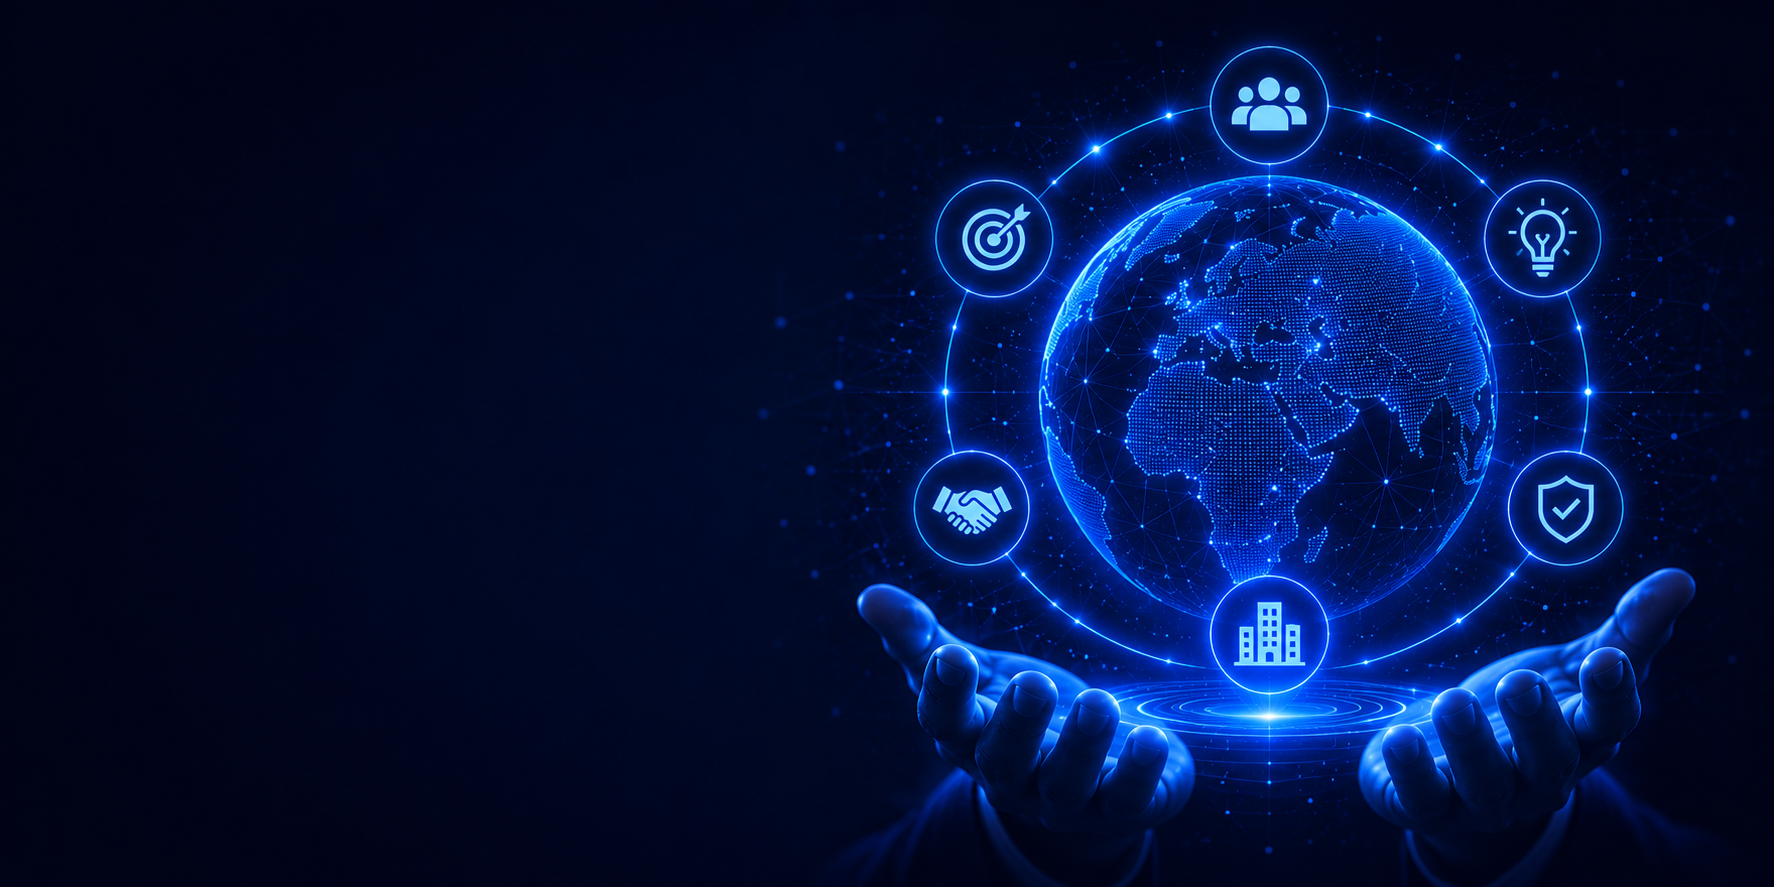
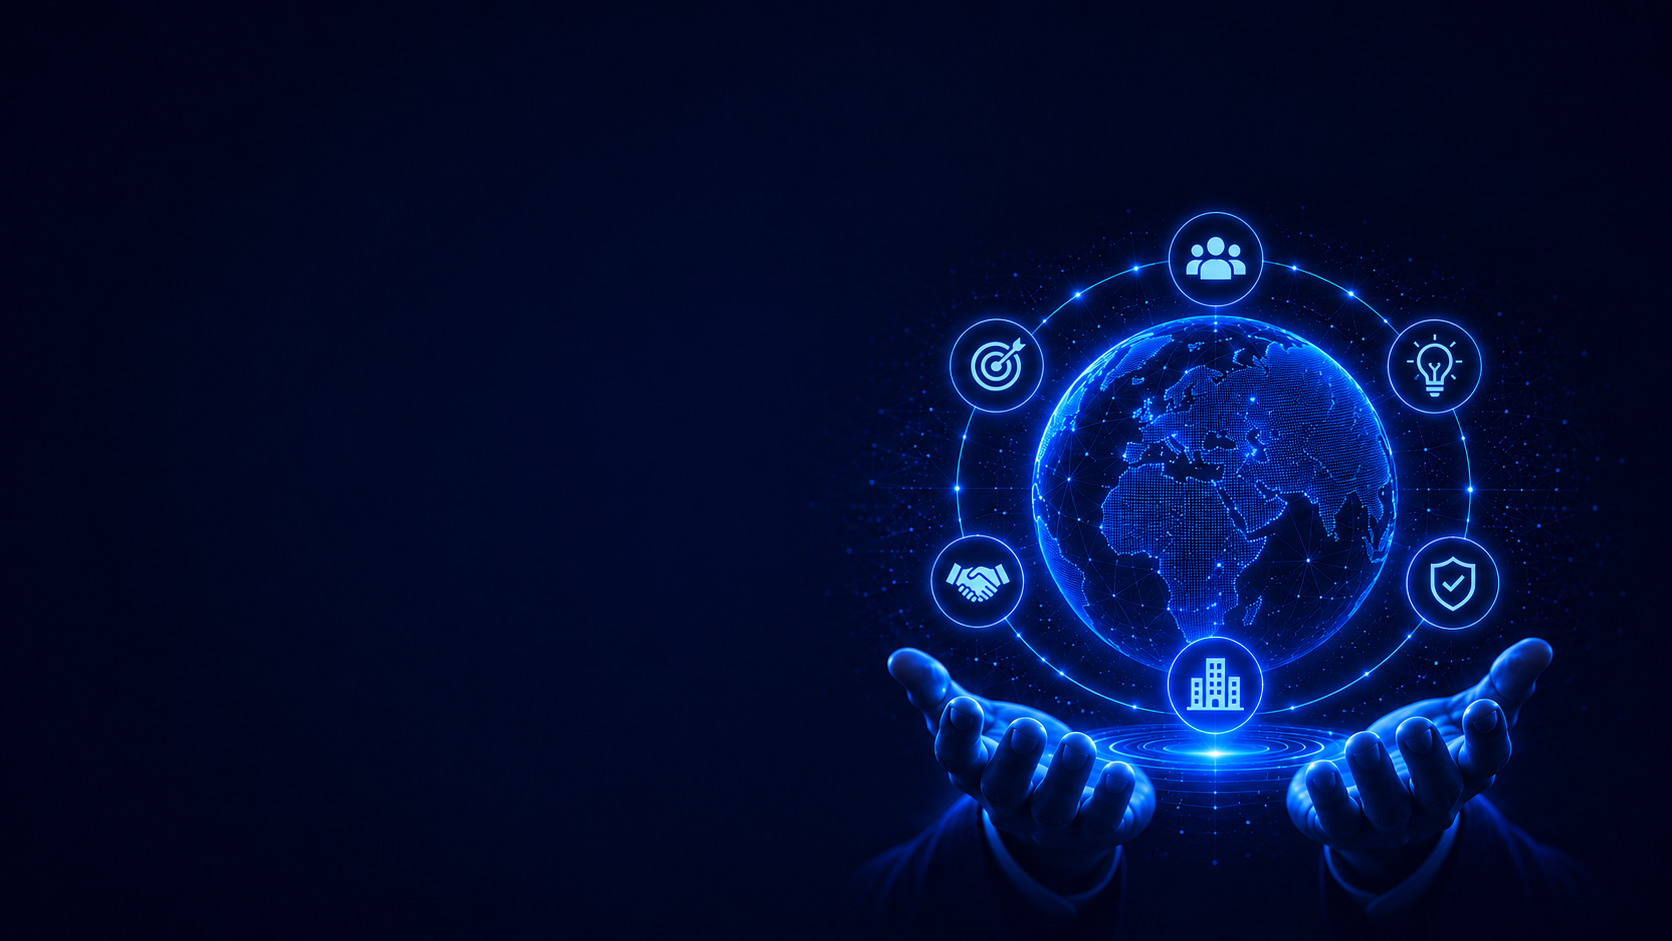
ui fixes

Changed region(s): [[0.4665, 0.0304, 0.9641, 1.0], [0.622, 0.9436, 0.6531, 1.0]]

diff --git a/src/styles/services.css b/src/styles/services.css
@@ -125,7 +125,7 @@ body.page-services .section-services-dark {
 /* Landing pages: banner is a CSS background so phones never download the image */
 @media (min-width: 769px) {
   .page-services .services-hero--landing .services-hero-banner-bg {
-    height: 130%;
+    height: 100%;
     background-image: var(--services-hero-banner);
     background-size: cover;
     background-position: 72% center;
@@ -145,6 +145,14 @@ body.page-services .section-services-dark {
       #000 68%,
       transparent 100%
     );
+  }
+
+  .page-services .services-hero--mobile-app .services-hero-banner-bg {
+    background-position: 72% calc(50% + 20px);
+  }
+
+  .page-services .services-hero--ai .services-hero-banner-bg {
+    background-position: 72% calc(50% + 20px);
   }
 }
 

diff --git a/src/styles/about.css b/src/styles/about.css
@@ -99,7 +99,7 @@ body.page-about .header:not(.scrolled):not(.nav-solid) {
   background-image: url('/assets/about-us.png');
   background-size: cover;
   background-repeat: no-repeat;
-  background-position: 90% 0%;
+  background-position: 90% -100px;
   opacity: 0.85;
   -webkit-mask-image: linear-gradient(
     105deg,
@@ -627,7 +627,7 @@ body.page-about .header:not(.scrolled):not(.nav-solid) {
   }
 
   .page-about .about-hero-banner-bg {
-    background-position: 82% 66%;
+    background-position: 82% calc(66% - 10px);
     opacity: 0.65;
   }
 

diff --git a/src/components/pages/service-landing-page.tsx b/src/components/pages/service-landing-page.tsx
@@ -82,7 +82,13 @@ export default function ServiceLandingPageContent({ slug }: { slug: string }) {
       />
 
       <section
-        className="services-hero services-hero--landing"
+        className={`services-hero services-hero--landing${
+          slug === 'mobile-app-development-services'
+            ? ' services-hero--mobile-app'
+            : slug === 'ai-automation-and-integration'
+              ? ' services-hero--ai'
+              : ''
+        }`}
         id="services-hero"
         style={
           {

diff --git a/src/lib/service-landing-content.ts b/src/lib/service-landing-content.ts
@@ -224,7 +224,7 @@ export const serviceLandingPages: ServiceLandingContent[] = [
   {
     slug: 'custom-software-development-services',
     path: '/custom-software-development-services/',
-    navLabel: 'Custom Software',
+    navLabel: 'Software Development',
     title: 'Custom Software Development Services',
     description:
       'Custom software development services from Shribi — tailored web platforms, internal tools, integrations, and automation for businesses that have outgrown off-the-shelf products.',
